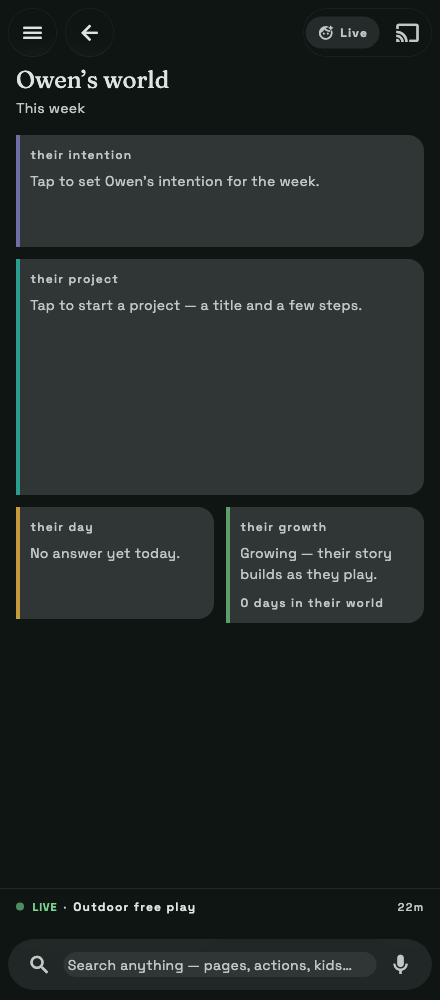
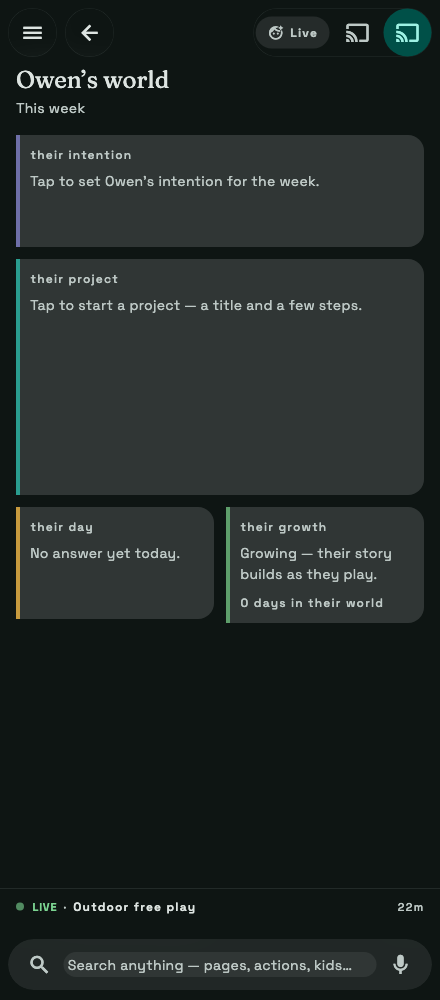
feat(slide): cast a child's week to the room (their world, intention, project)
Third cast-sprout off the present engine (task: cast everything). The child-
world screen (/subjects/:id/world) gets a 'Cast to the room' chrome action that
builds a deck from what the child has filled in this week — an opening world
slide (always), then their intention, their project (with step progress), and
today's answer — each tinted to the week's curriculum world, presented via the
generic presentSlides(). Slides appear only for content that exists, so an
empty week still casts the opening 'here's {name}'s world'.

child_world goldens regenerated (the new chrome pill renders in the gallery);
screen score unchanged (themed pill, no hardcode).

Verify: flutter analyze clean; full suite 863 green; score_screens re-run.

Changed region(s): [[0.7682, 0.0, 0.975, 0.062], [0.6795, 0.031, 0.7386, 0.062], [0.6205, 0.0, 0.65, 0.062]]

diff --git a/lib/features/child_world/child_world_screen.dart b/lib/features/child_world/child_world_screen.dart
@@ -11,12 +11,14 @@ import 'package:differentworld/features/groups/groups_providers.dart';
 import 'package:differentworld/features/groups/room_skin_background.dart';
 import 'package:differentworld/features/groups/room_skins.dart';
 import 'package:differentworld/features/heroes/heroes_providers.dart';
+import 'package:differentworld/features/live_session/slide_present.dart';
 import 'package:differentworld/features/subjects/subjects_providers.dart';
 import 'package:differentworld/shared/widgets/bento_grid.dart';
 import 'package:differentworld/shared/widgets/content_header.dart';
 import 'package:differentworld/shared/widgets/dismiss_guard.dart';
 import 'package:differentworld/shared/widgets/edge_scaffold.dart';
 import 'package:differentworld/shared/widgets/glass_panel.dart';
+import 'package:differentworld/shared/widgets/primary_action_button.dart';
 import 'package:flutter/material.dart';
 import 'package:flutter/services.dart';
 import 'package:flutter_riverpod/flutter_riverpod.dart';
@@ -54,6 +56,9 @@ class ChildWorldScreen extends ConsumerWidget {
       background: skin == null
           ? null
           : RoomSkinBackground(skin: skin, decal: true),
+      actions: [
+        _CastWeekButton(subjectKey: key, childName: name),
+      ],
       body: SafeArea(
         bottom: false,
         child: ListView(
@@ -88,6 +93,74 @@ class ChildWorldScreen extends ConsumerWidget {
         ),
       ),
     );
+  }
+}
+
+/// Cast a child's WEEK to the room (docs/VISION.md 2026-06-20) — their world,
+/// intention, project, and today's answer as a deck of slides via the generic
+/// present engine. The opening slide always shows; the rest appear as the child
+/// fills them in.
+class _CastWeekButton extends ConsumerWidget {
+  const _CastWeekButton({required this.subjectKey, required this.childName});
+
+  final SubjectWeekKey subjectKey;
+  final String childName;
+
+  @override
+  Widget build(BuildContext context, WidgetRef ref) {
+    final world = ref.watch(currentWorldProvider);
+    final intention = ref.watch(weeklyIntentionProvider(subjectKey)).value;
+    final project = ref.watch(childProjectProvider(subjectKey)).value;
+    final answer = ref.watch(todaysAnswerProvider(subjectKey.subjectId)).value;
+    final accent = world?.color;
+
+    return PrimaryActionButton(
+      tooltip: 'Cast to the room',
+      icon: Icons.cast,
+      onPressed: () {
+        final slides = <PresentSlide>[
+          PresentSlide(
+            eyebrow: 'THIS WEEK',
+            title: '$childName’s world',
+            subtitle: world?.name,
+            emoji: world?.emoji,
+            accent: accent,
+          ),
+          if (intention != null)
+            PresentSlide(
+              eyebrow: 'THE INTENTION',
+              title: intention,
+              icon: Icons.flag_outlined,
+              accent: accent,
+            ),
+          if (project != null)
+            PresentSlide(
+              eyebrow: 'THE PROJECT',
+              title: project.title,
+              subtitle: _projectSubtitle(project),
+              icon: Icons.handyman_outlined,
+              accent: accent,
+            ),
+          if (answer != null)
+            PresentSlide(
+              eyebrow: 'TODAY ${childName.toUpperCase()} SAID',
+              title: answer,
+              icon: Icons.chat_bubble_outline,
+              accent: accent,
+            ),
+        ];
+        unawaited(
+          presentSlides(context, title: '$childName’s world', slides: slides),
+        );
+      },
+    );
+  }
+
+  String _projectSubtitle(ProjectView p) {
+    final total = p.steps.length;
+    final base = total == 0 ? 'A project' : '${p.done} of $total steps';
+    if (total > 0 && p.done < total) return '$base · next: ${p.steps[p.done]}';
+    return base;
   }
 }
 
